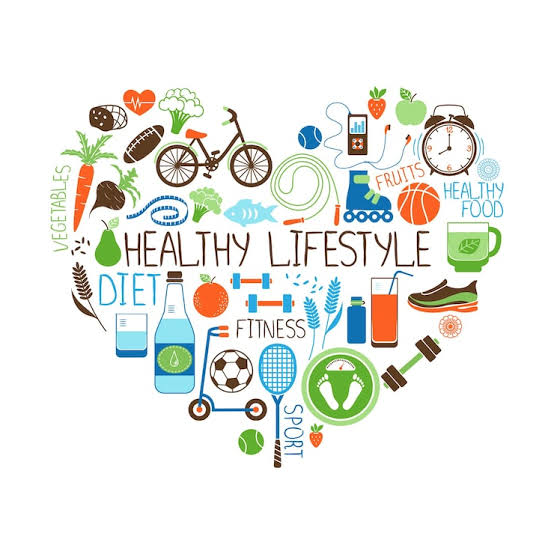
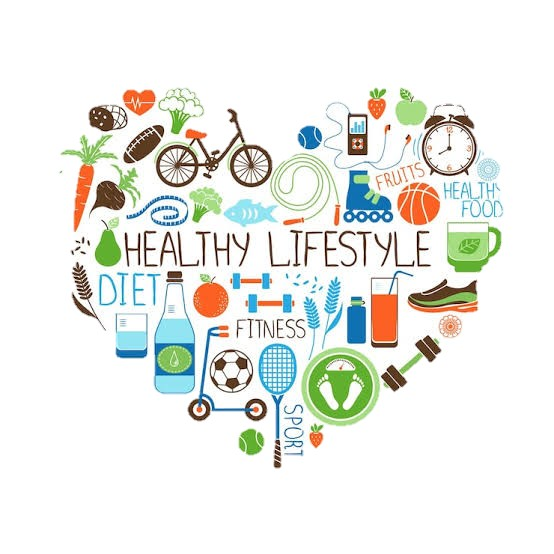
Complete landing page implementation

diff --git a/styles.css b/styles.css
@@ -1,14 +1,15 @@
 /* Add your CSS to this file */
-body {
+body{
     margin: 0;
     font-size: 16px;
+    font-family: -apple-system, BlinkMacSystemFont, "Segoe UI", Roboto, "Helvetica Neue", Arial, "Noto Sans", sans-serif;
 }
 
 .container {
     margin: 0 auto;
+    display: flex;
     max-width: 960px;
-    width: 100%;
-    font-family: '-apple-system, 'BlinkMacSystemFont', "Segoe UI", Roboto, "Helvetica Neue", Arial, "Noto Sans", sans-serif';
+    width: 100%;    
     font-size: 18px;
 }
 
@@ -17,22 +18,21 @@ header{
     display: flex;
     justify-content: space-between;
     align-items: center;
-    background-color: #f8f9fa;
+    background-color: #ffffff;
     font-size: 18px;
 }
+
 
 /*navigation and hover styles*/
 nav ul {
     display:flex;
-    justify-content: flex-end;
     list-style: none;
     gap: 20px;
     color: #6b7280;
 }
 
 nav ul:hover{
-    color: #5A67D8;
-}
+    color: #5A67D8;}
 
 /*hero section styles*/
 .overview-hero {
@@ -52,6 +52,7 @@ nav ul:hover{
 .overview-hero-image img{
     max-width: 50%;
     height: auto;
+  
 }
 
 .overview-hero-text{
@@ -66,27 +67,33 @@ nav ul:hover{
 .cards{
     display: grid;
     grid-template-columns: repeat(3, minmax(0, 1fr));
-    gap: 25px;
+    gap: 30px;
     box-shadow: 4px 2px 4px rgba(0,0,0,0.5);
 }
 
 .card {
-    border: 1px solid #e2e8f0;
+    border: 4px solid;
     border-radius: 5px;
-    overflow: hidden;
+    border-bottom-width: 5px;
+    border-color: #E2E8F0;
 }
 .card img {
-    width: 120%;
-    height: 200px;
-    object-fit: cover;
+    width: 100%;
+    height: 150px;
+    object-fit: fill ;
 }
 
 .card-body {
     padding: 15px;
 }
 
-.card h3{
-    color: #48BB78
+.learn-about h2{
+    color: #4A5568;
+    font-size: 24px;
+}
+.learn-about h3{
+    color: #48BB78;
+    font-size: 21px;
 }
 
 /*COVID Testing styles*/
@@ -122,6 +129,9 @@ nav ul:hover{
     gap: 30px;
 }
 
+.stories  h2{
+    color: #5a67d8;
+}
 .stories article img{
     width: 25%;
     height: auto;
@@ -138,6 +148,7 @@ nav ul:hover{
     text-align: center;
     padding: 30px;
     background-color: #48BB78;
+    color: #ffff;
 }
 
 
@@ -153,12 +164,18 @@ nav ul:hover{
     padding: 10px 20px;
     cursor: pointer;
     background-color: #5A67D8;
-    
+    color: #ffff;
+    border: none;
+}
+
+.newsletter .message{
+   
+    font-style: italic;
 }
 
 footer {
     background-color: #4A5568;
     color: #ffff;
     padding: 10px;
-    ;
+   
 }

diff --git a/index.html b/index.html
@@ -5,7 +5,7 @@
     <meta name="viewport" content="width=device-width, initial-scale=1.0">
     <title>INFO2180 Project 1</title>
     <link rel="stylesheet" href="styles.css">
-    <script src="scripts.js"></script>
+    <script src="scripts.js" defer></script>
 </head>
 <body>
     <header>
@@ -26,7 +26,7 @@
         <section class="overview-hero">
             <div class="container">
                 <div class="overview-hero-image">
-                    <img src="herosecimg.jpg" alt="Health and Wellness">
+                    <img src="herosecimg2.jpg" alt="Health and Wellness">
                 </div>
                 <div class="overview-hero-text">
                     <h2>Live  your healthiest life now!</h2>
@@ -98,7 +98,7 @@
             <div class="container">
                 <h3>Sign up for our newsletter</h3>
                 <p>Learn more about the latest developments from INFO2180 Labs’ health-related research and initiatives.</p>
-                <form action="#" method="post">
+                <form action="#" method="POST">
                     <div class="form-group">
                         <input type="email" name="email" id="email" placeholder="Enter your email">
                     </div>

diff --git a/scripts.js b/scripts.js
@@ -1,1 +1,16 @@
-/* Add your JavaScript to this file */
+const form = document.querySelector('.newsletter form'); 
+const email = document.querySelector('#email');
+const message = document.querySelector('.message');
+
+form.addEventListener('submit', function(event) {
+    event.preventDefault();
+
+    let emailAdd = email.value.trim();
+
+    if (emailAdd === '') {
+        message.textContent = 'Please enter a valid email address.';
+    } else{
+        message.textContent = `Thank you! Your email address ${emailAdd} has been added to our mailing list!.`;
+    }
+});
+       
